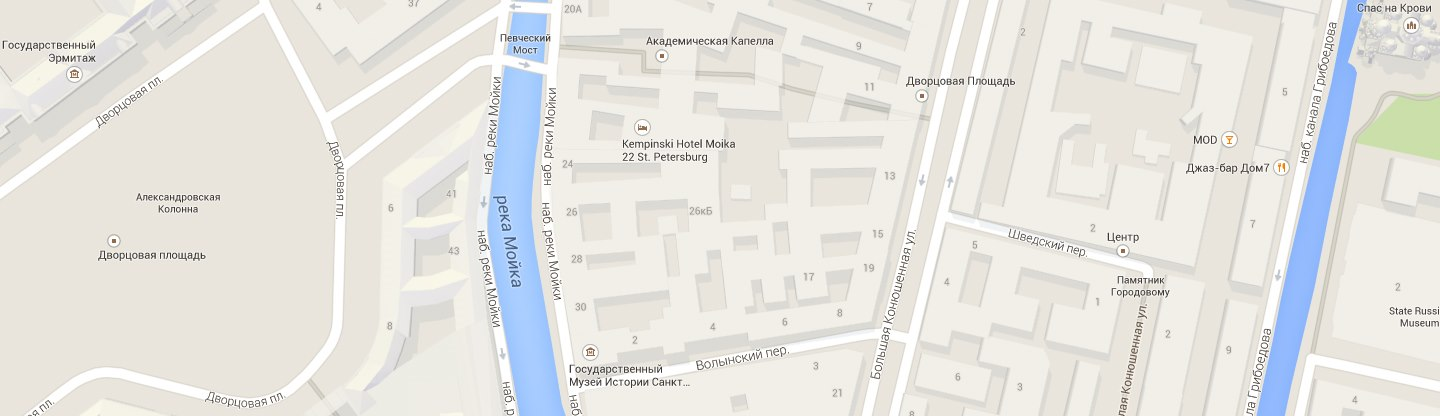
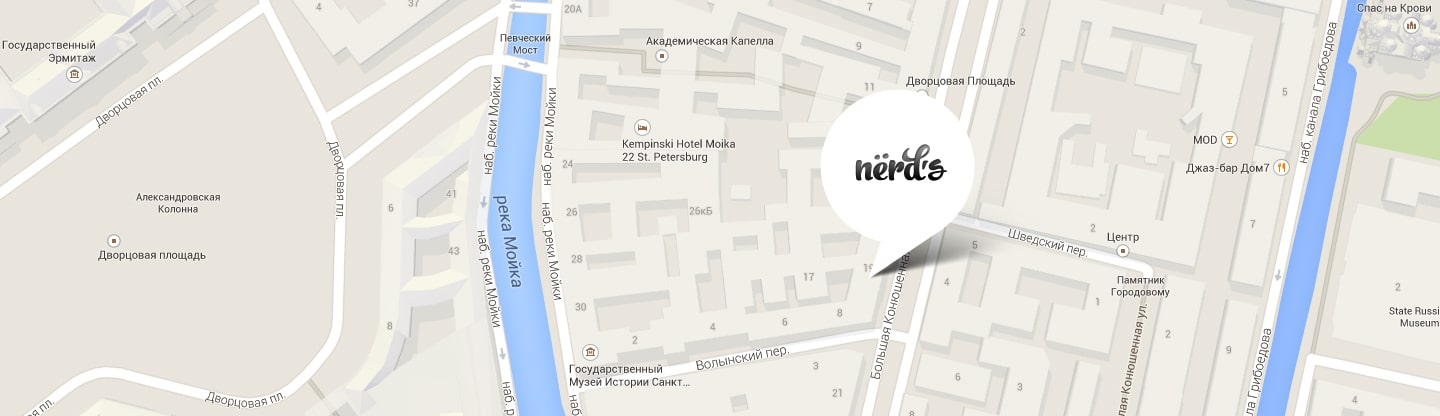
Настраивает отступы в разделе с контактной информацией
Карту и метку на карте разместила одним изображением, чтобы не дублировался альтернативный текст

Changed region(s): [[0.5625, 0.2188, 0.6875, 0.6562]]

diff --git a/index.html b/index.html
@@ -156,8 +156,7 @@
   	<footer class="footer">
       <section class="contacts">
         <h2 class="visually-hidden">Контакты</h2>
-        <img class="contacts__map" src="img/map.jpg" width="1440" height="416" alt="Карта офиса по адресу Санкт-Петербург, ул. Б. Конюшенная, д. 19/8">
-        <img class="contacts__map-marker" src="img/map-marker.png" width="231" height="190" alt="Положение офиса на карте по адресу Санкт-Петербург, ул. Б. Конюшенная, д. 19/8">
+        <img class="contacts__map" src="img/map.jpg" width="1440" height="416" alt="Расположение офиса по адресу г. Санкт-Петербург, ул. Б. Конюшенная, д. 19/8">
         <div class="container"> 
           <div class="contacts__card">
             <h3 class="contacts__heading">Nёrds design studio</h3>

diff --git a/css/main.css b/css/main.css
@@ -530,7 +530,7 @@ html {
 
 .client {
   margin-top: 45px;
-  padding-bottom: 40px;
+  padding-bottom: 41px;
   border-bottom: 2px solid #eeeeee;
 }
 
@@ -578,17 +578,22 @@ html {
   position: relative;
 }
 
+.contacts__map {
+	display: block;
+	margin: 0 auto;
+}
+
 .contacts__card {
   position: absolute;
   top: 54px;
   box-sizing: border-box;
   width: 320px;
-  padding: 49px 50px 48px 50px;
+  padding: 49px 51px 46px 51px;
   background-color: #fff;
 }
 
 .contacts__heading {
-  margin: 0;
+  margin: 0 0 23px 0;
   font-size: 18px;
   font-weight: 700;
   line-height: 30px;
@@ -597,7 +602,7 @@ html {
 
 .contacts__text {
   display: block;
-  margin-top: 21px;
+  margin-top: 18px;
   margin-bottom: 0;
   font-size: 16px;
   line-height: 18px;
